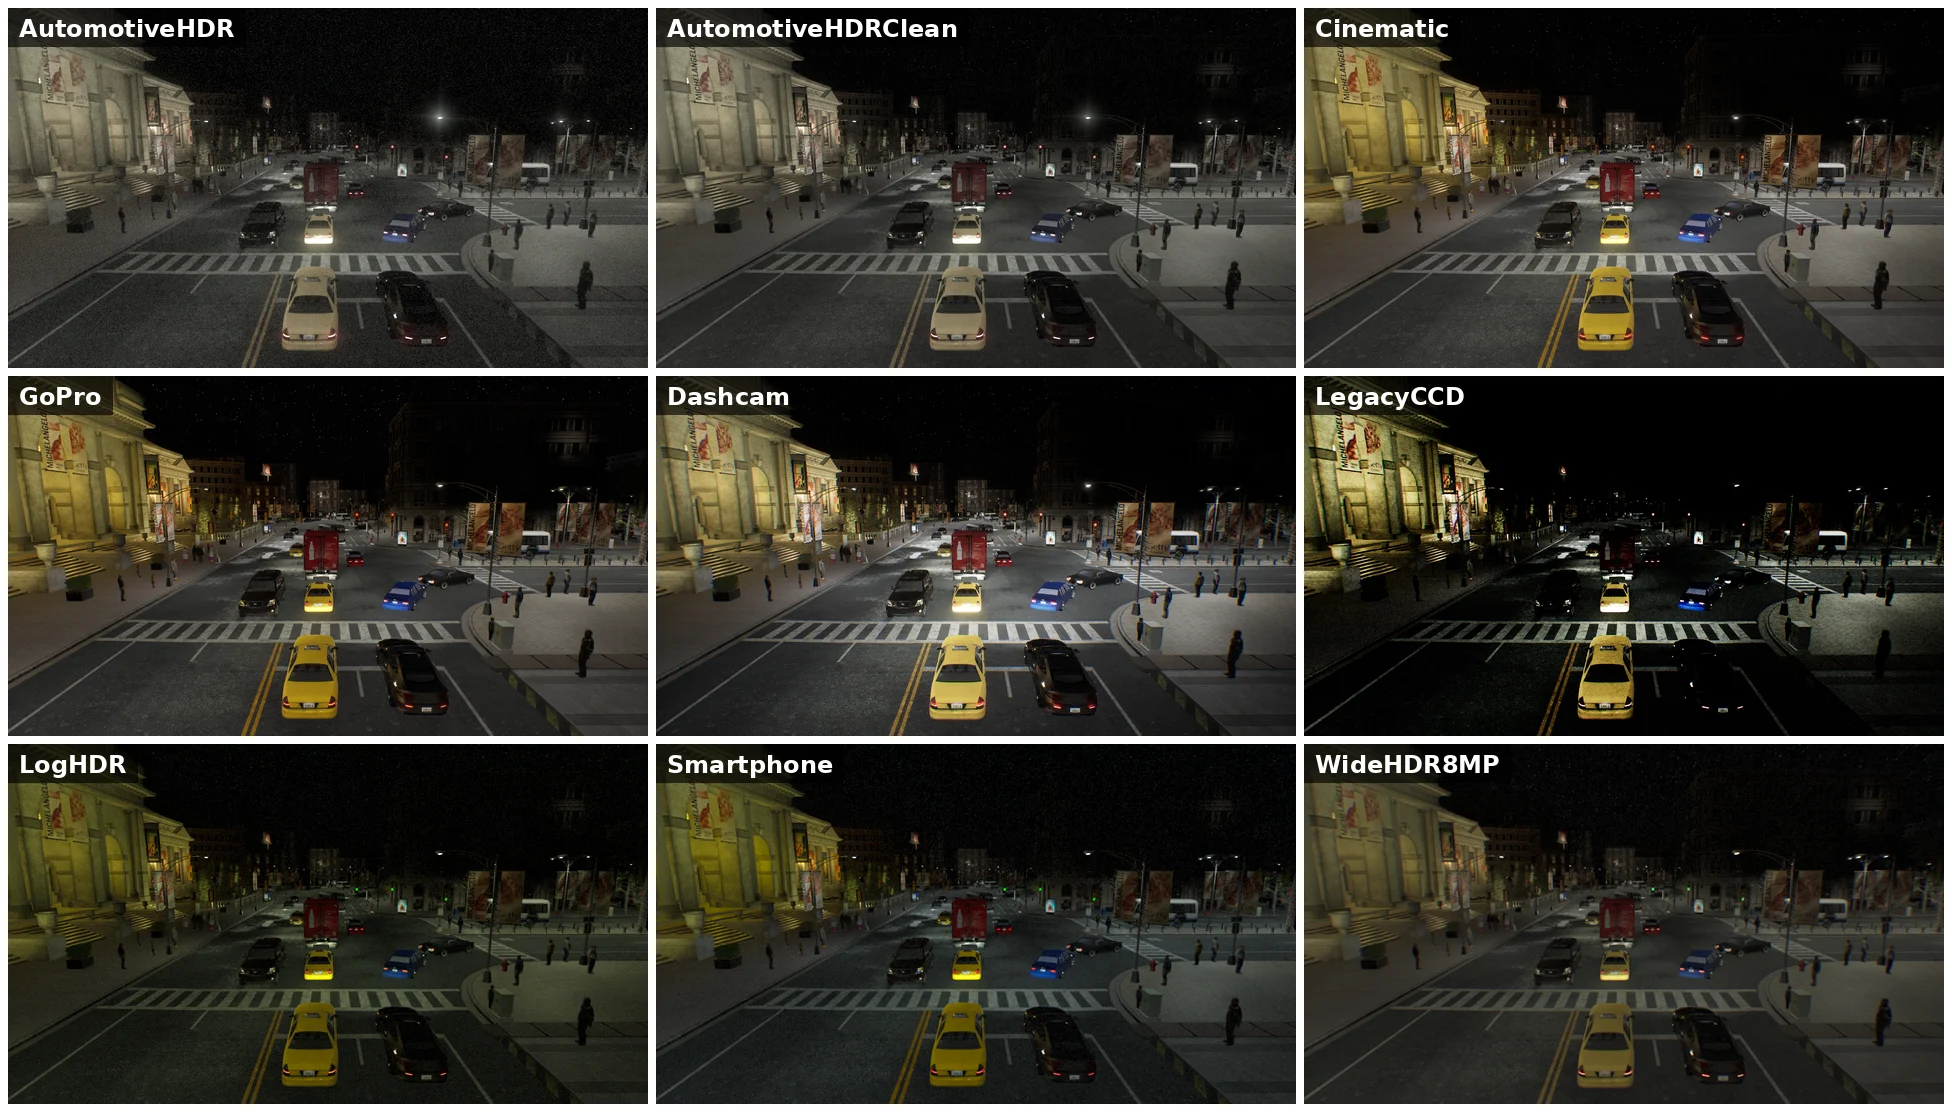
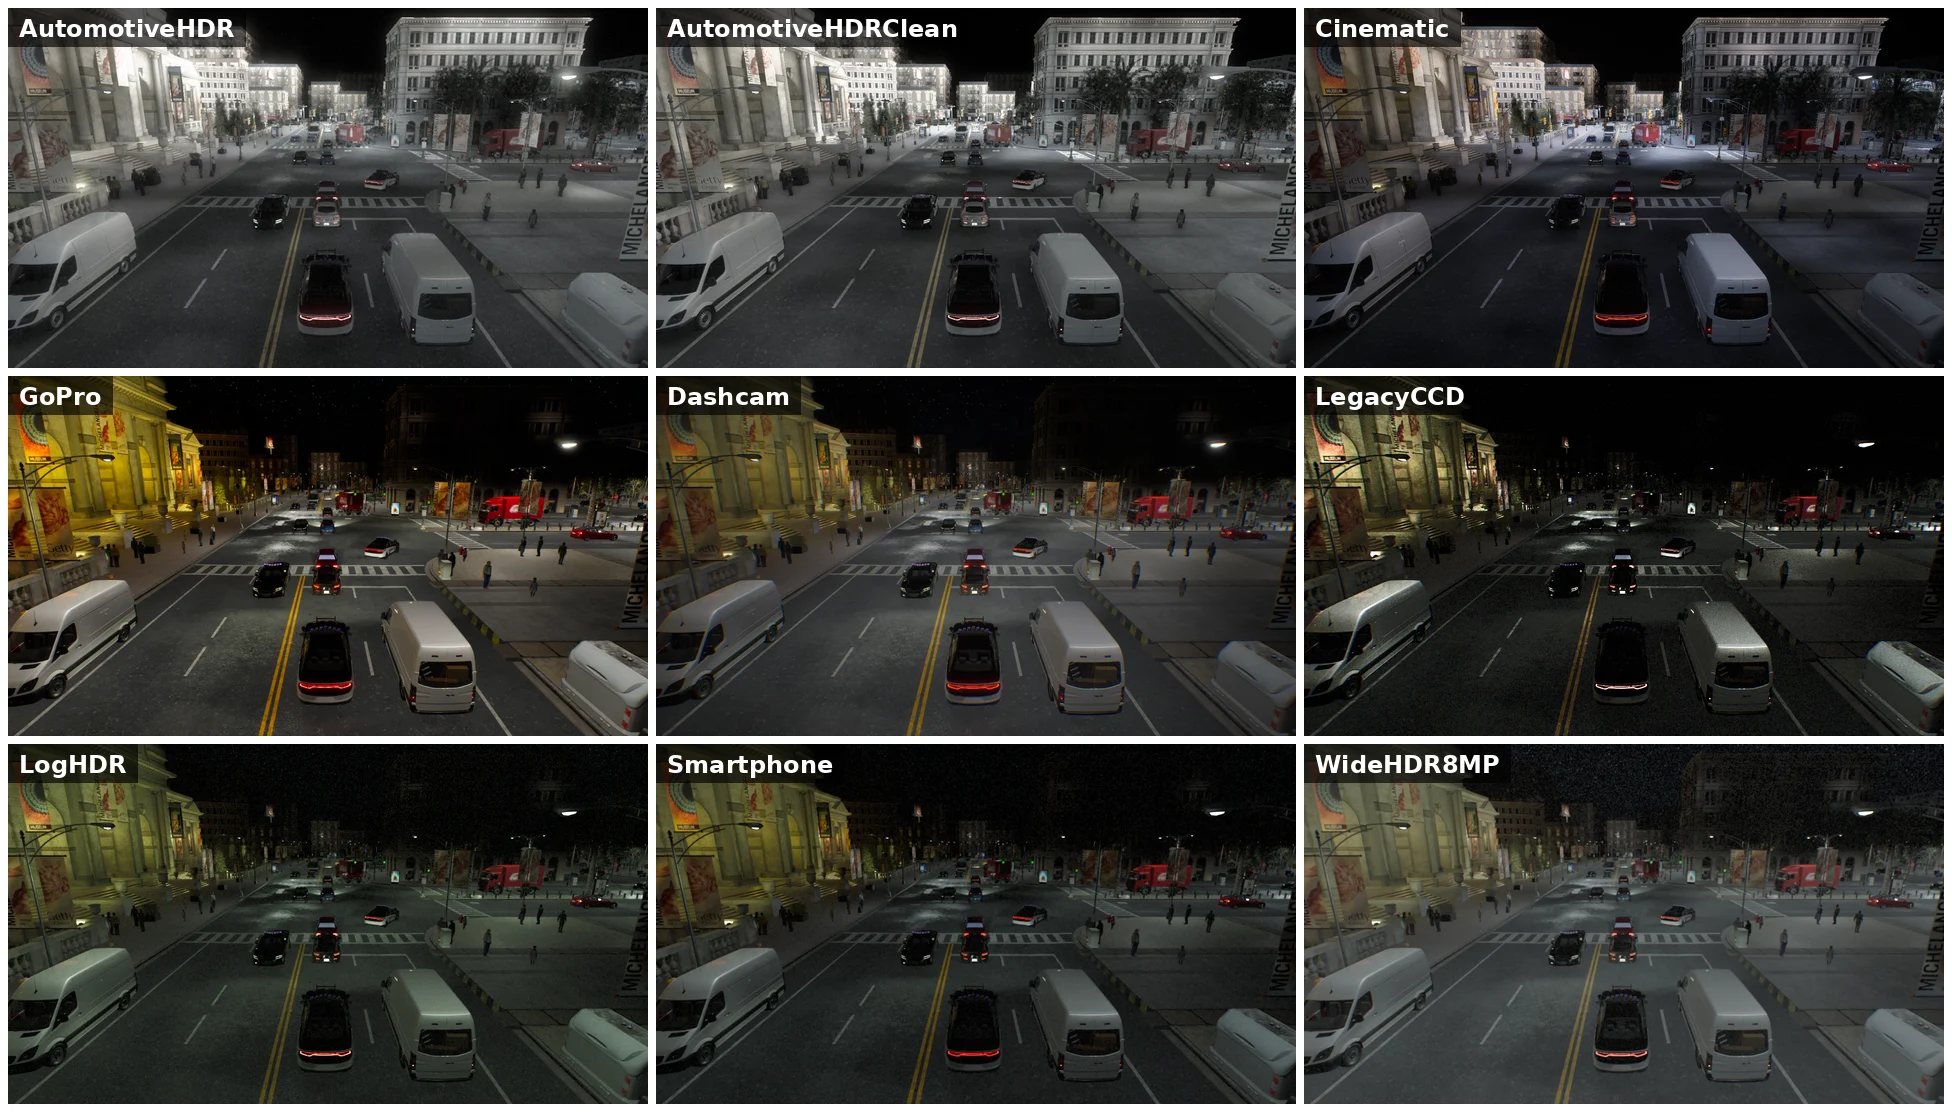
docs(camera presets): comparison grids regenerated with the retuned profiles; side-by-side with the real cameras
- camera_profiles_* grids (Town10HD_Opt, Town15; ClearNoon, HardRainNoon, ClearSunset, ClearNight) and the
  camera_profiles_all slideshow re-rendered with the retuned profiles (looks.py --mode matrix, grids_matrix.py).
- New "Compared with the real cameras" section: each preset on a street staged like a real frame of the camera it
  imitates, with that camera's resolution, field of view and lens, and the real frame as an inset; credits for the
  reference datasets and photos.
- GoPro and Dashcam are now tuned against real action-camera and dashcam frames; only Cinematic is graded by eye.

diff --git a/Docs/core_camera_presets.md b/Docs/core_camera_presets.md
@@ -28,7 +28,7 @@ The profile is read when the sensor spawns: to change it, set the attribute agai
 
 Nine profiles ship in `Content/Carla/Config/PostProcess`. They change the image processing only, never the geometry of the lens.
 
-Each automotive preset reproduces the look of the camera of a public driving dataset, tuned on Town10HD_Opt against frames of that dataset (exposure and contrast percentiles, saturation, white balance, sharpness, noise per brightness). The consumer presets are graded by eye.
+Each automotive preset reproduces the look of the camera of a public driving dataset, tuned on Town10HD_Opt against frames of that dataset (exposure and contrast percentiles, saturation, white balance, sharpness, noise per brightness). `GoPro` and `Dashcam` are tuned against frames of a hood-mounted action camera and of consumer dashcams. `Cinematic` is graded by eye.
 
 | Preset | Imitates | Look |
 | --- | --- | --- |
@@ -77,6 +77,36 @@ camera_bp.set_attribute('image_size_x', '1242')
 camera_bp.set_attribute('image_size_y', '375')
 camera_bp.set_attribute('fov', '82')
 ```
+
+### Compared with the real cameras
+
+Each preset on a Town10HD_Opt street staged like a real frame of the camera it imitates (the same kind of street, traffic and pedestrians, and the weather the preset was tuned with), rendered with that camera's resolution, field of view and lens. The real frame is the inset. Click an image and use the arrow keys or the mouse wheel to go through all of them.
+
+![real_automotivehdr](img/core_camera_presets/real_automotivehdr.webp)
+<div class="img-caption">AutomotiveHDR, 1600 × 900, 70°, beside the nuScenes front camera.</div>
+
+![real_automotivehdr_night](img/core_camera_presets/real_automotivehdr_night.webp)
+<div class="img-caption">AutomotiveHDR at night, beside a nuScenes night frame.</div>
+
+![real_widehdr8mp](img/core_camera_presets/real_widehdr8mp.webp)
+<div class="img-caption">WideHDR8MP through a 120° Kannala-Brandt lens (`sensor.camera.rt_lens`), overcast, beside the Zenseact ZOD front camera.</div>
+
+![real_legacyccd](img/core_camera_presets/real_legacyccd.webp)
+<div class="img-caption">LegacyCCD, 1242 × 375, 82°, beside KITTI.</div>
+
+![real_loghdr](img/core_camera_presets/real_loghdr.webp)
+<div class="img-caption">LogHDR, 2048 × 1024, 50°, overcast, beside Cityscapes.</div>
+
+![real_smartphone](img/core_camera_presets/real_smartphone.webp)
+<div class="img-caption">Smartphone, 1164 × 874, 65°, beside the comma.ai road camera.</div>
+
+![real_gopro](img/core_camera_presets/real_gopro.webp)
+<div class="img-caption">GoPro through a 150° equidistant fisheye on the hood (`sensor.camera.rt_lens`), beside a hood-mounted action camera.</div>
+
+![real_dashcam](img/core_camera_presets/real_dashcam.webp)
+<div class="img-caption">Dashcam through a 110° Brown-Conrady barrel lens (`sensor.camera.rt_lens`), beside a consumer dashcam.</div>
+
+Reference frames: [nuScenes](https://www.nuscenes.org/) (CC BY-NC-SA 4.0), [Zenseact ZOD](https://zod.zenseact.com/) (CC BY-SA 4.0), [KITTI](https://www.cvlibs.net/datasets/kitti/) (CC BY-NC-SA 3.0), [Cityscapes](https://www.cityscapes-dataset.com/), [comma10k](https://github.com/commaai/comma10k) (MIT); action camera by live360 on Mapillary via Wikimedia Commons (CC BY-SA 4.0), dashcam by Michael Rivera via Wikimedia Commons (CC BY 4.0).
 
 ### Sensor effects
 
